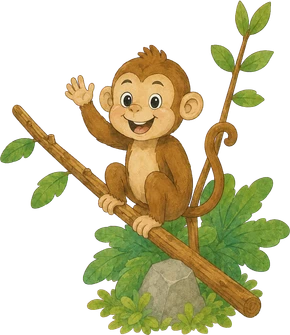
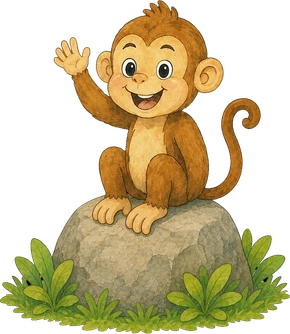
지도 동물 — 원숭이 그림 교체, 개구리 확대
■ 원숭이 v2
나뭇가지·덩굴에 매달린 그림에서 바위에 앉은 그림으로 바꿨다.
비율이 0.867 → 0.869 로 거의 같아 자리·크기는 그대로 두었다.

원화가 투명이 아니라 '검정 배경'으로 와서 배경을 지워야 했다.
테두리에 닿은 검정만 번져 들어가며 지우는 방식이라 눈동자처럼 안쪽에
있는 검정은 살아남는다(74.7% 지움). 가장자리 한 겹은 검정과 그림이
섞여 어두우므로 밝기에 비례해 알파를 깎아 다듬었다(3,858px).

■ 개구리 확대
지도 폭의 20 → 24%. 화면에서 83 → 99px.
키우고 나니 짧은 지도에서 왼쪽이 지도 밖으로 나가고 보물상자와 겹쳐서
자리를 함께 옮겼다 — 긴 지도 [14,86] → [15,86],
짧은 지도 [14,86] → [15,83.5]. 옮긴 자리가 물이 아닌지 색을 찍어 확인했다.
표시가 커진 만큼 그림도 3.5배 기준으로 다시 뽑았다(290 → 362px).

겹침 재검사: 건물을 다 세운 최악의 경우에도 안 가려지는 동물이
긴 지도 4마리 · 짧은 지도 3마리 — 두 마리 뽑기에 여전히 충분하다.

Claude-Session: https://claude.ai/code/session_018maNuYqDfFyRSe9uKpZhPR

diff --git a/src/components/AdventureMap.jsx b/src/components/AdventureMap.jsx
@@ -89,7 +89,7 @@ const ANIMAL_IMG = {
 /* 원화 실측 가로/세로 — 말풍선을 동물 '머리 위'에 놓으려면 높이를 알아야 한다.
    폭만 %로 주고 높이는 비율로 따라오므로, 지도 높이 % 로 환산해서 쓴다:
      높이% = 폭% / (원화비율 × 지도세로비) */
-const ANIMAL_AR = { ev_parrot: 738/1158, ev_monkey: 911/1051, ev_toucan: 967/809,
+const ANIMAL_AR = { ev_parrot: 738/1158, ev_monkey: 813/936, ev_toucan: 967/809,
                     ev_boar: 870/749, ev_frog: 1406/886,
                     ev_butterfly: 240/249, ev_turtle: 300/175 };
 const animalTop = (M, id) => {
@@ -112,7 +112,7 @@ const MAP_LONG = {
   cdy: 5.5,         // 진행도 칩(🔒 n/N)을 상자 아래로 내리는 오프셋 (지도 높이 % — 상자 안 가리게)
   // 동물 다섯 [중심x%, 바닥y%, 폭%] — 하루 두 마리만 나온다 (rollMapAnimals)
   animals: { ev_parrot: [82, 30, 16], ev_monkey: [70, 54, 20], ev_toucan: [15, 74, 20],
-             ev_boar: [85, 73, 17], ev_frog: [14, 86, 20],
+             ev_boar: [85, 73, 17], ev_frog: [15, 86, 24],
              /* 나비·거북이는 예전 '손님' 자리(중심 기준)를 바닥 기준으로 환산해 옮겼다 */
              ev_butterfly: [28, 25.3, 9], ev_turtle: [15, 91, 12] },
   /* [사용자 확정 2026-07-31] 지도 원화에 없는 손님 3종은 '그날만' 그려 넣는다.
@@ -178,7 +178,7 @@ const MAP_SHORT = {
   cdy: 6.5,         // 진행도 칩(🔒 n/N)을 상자 아래로 내리는 오프셋 (지도 높이 % — 상자 안 가리게)
   // 원화에 그려진 동물들의 머리 위 좌표 (%) — 랜덤 이벤트 날 👋 말풍선 자리 (그리드 실측)
   animals: { ev_parrot: [83, 32, 17], ev_monkey: [72, 56, 21], ev_toucan: [15, 73, 21],
-             ev_boar: [86, 74, 18], ev_frog: [14, 86, 21],
+             ev_boar: [86, 74, 18], ev_frog: [15, 83.5, 24],
              ev_butterfly: [28, 26.8, 10], ev_turtle: [12, 93, 13] },
   evImg: { ev_rainbow: [62, 5.5, 31] },
   yr: 1704 / 923,

diff --git a/art-src/README.md b/art-src/README.md
@@ -153,10 +153,10 @@ getBoundingClientRect로 재서 정한다. 2026-08-05 점검에서 이 기준을
 | adventure-map-short-v11-src.webp | 짧은 지도 v11 (923×1704 — 동물·보물상자 없는 판) | adventure-map-short.webp |
 | chest-closed-v1-src.webp | 닫힌 보물상자 (v10 지도 원화에서 오려 낸 것 — v11 지도엔 상자가 안 그려져 있어 따로 얹는다. 화면용 230px) | chest-closed.webp |
 | map-ev/parrot-v1-src.webp | 지도 동물 — 앵무새 (그루터기 대신 나무 횃대+수풀, 투명. 지도 폭의 16%) | map-ev/parrot.webp |
-| map-ev/monkey-v1-src.webp | 지도 동물 — 원숭이 (나뭇가지+덩굴+바위, 투명. 지도 폭의 20%) | map-ev/monkey.webp |
+| map-ev/monkey-v2-src.webp | 지도 동물 — 원숭이 v2 (바위에 앉은 모습, 나뭇가지·덩굴 없음. 원화가 검정 배경으로 와서 테두리에 닿은 검정만 지우고 가장자리를 다듬어 탑재. 지도 폭의 20%) | map-ev/monkey.webp |
 | map-ev/toucan-v1-src.webp | 지도 동물 — 큰부리새 (나뭇가지, 투명. 지도 폭의 20%) | map-ev/toucan.webp |
 | map-ev/boar-v1-src.webp | 지도 동물 — 멧돼지 (투명. 지도 폭의 17%) | map-ev/boar.webp |
-| map-ev/frog-v1-src.webp | 지도 동물 — 개구리 (바위+수풀, 투명. 지도 폭의 20%) | map-ev/frog.webp |
+| map-ev/frog-v1-src.webp | 지도 동물 — 개구리 (바위+수풀, 투명. 지도 폭의 24% — 사용자 요청으로 20→24% 확대) | map-ev/frog.webp |
 | map-bld-treehouse-v2.webp | 지도 학원 건물 v7-1 (나무 위의 집, 흰 원→투명 펀칭) | map-bld-treehouse.webp |
 | map-bld-stonearch-v2.webp | 지도 학원 건물 v7-2 (돌 아치문, 흰 원→투명 펀칭) | map-bld-stonearch.webp |
 | map-bld-tent-v2.webp | 지도 학원 건물 v7-3 (탐험가 텐트, 흰 원→투명 펀칭) | map-bld-tent.webp |
